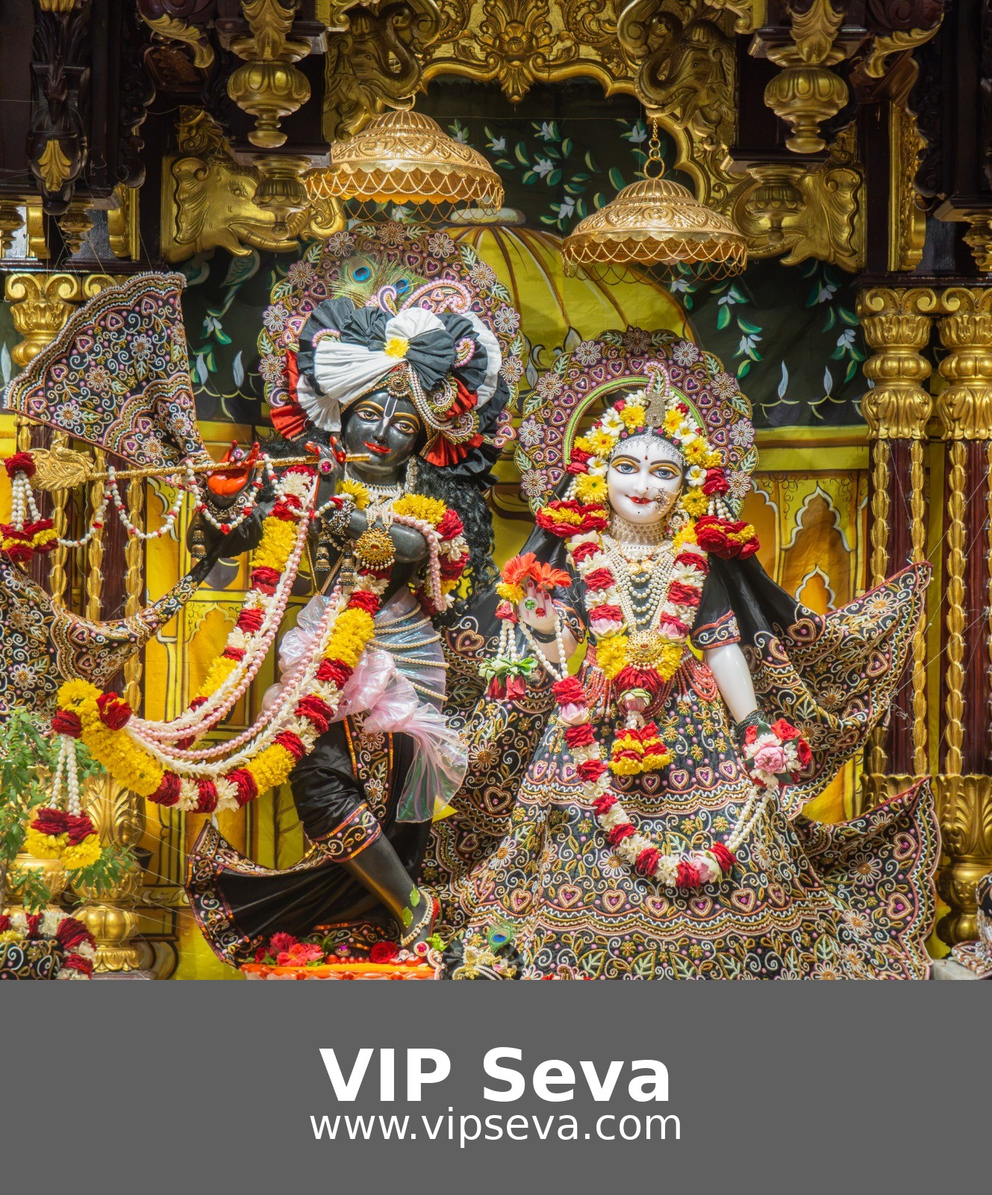
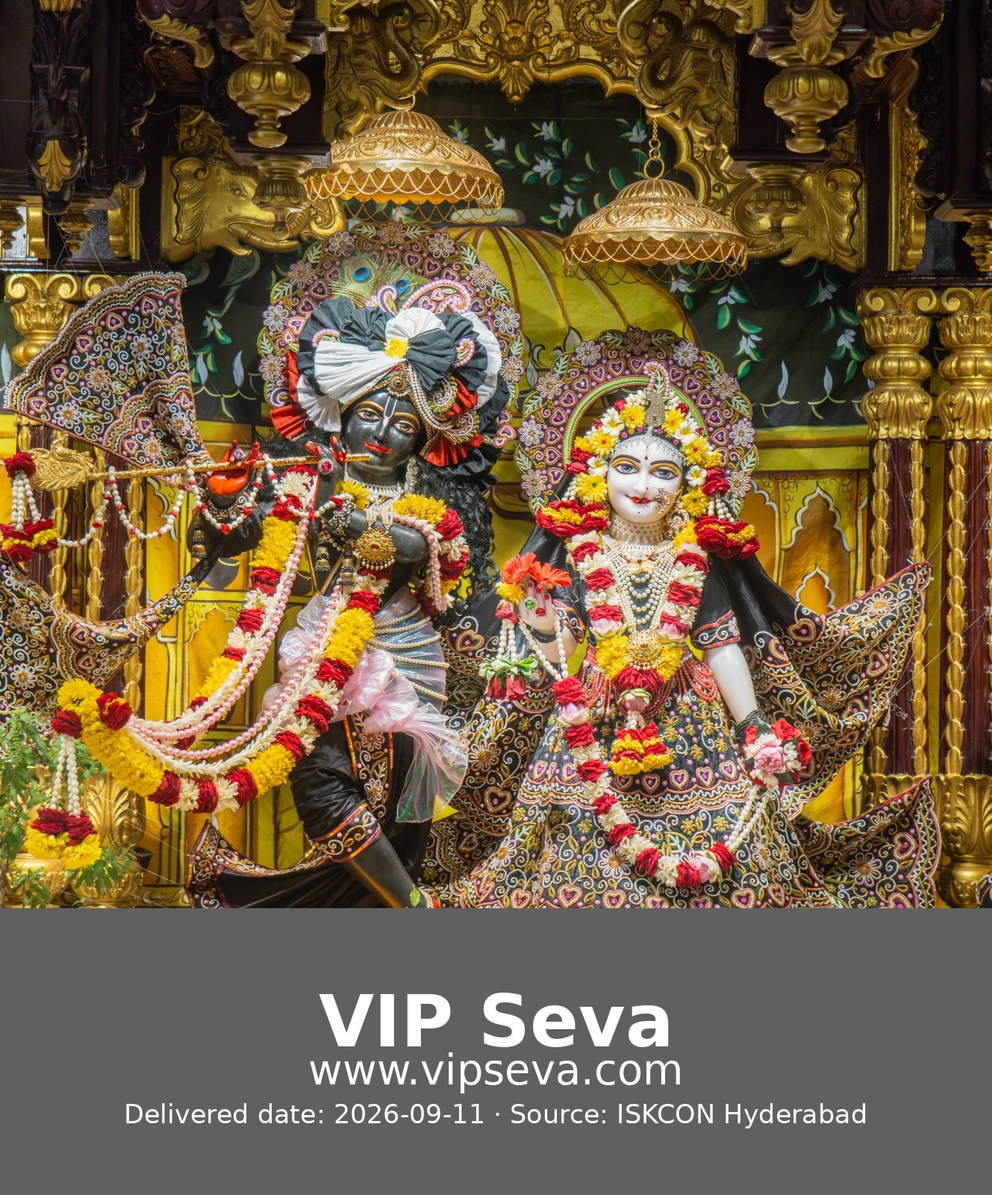
Daily darshan image + pages 2026-09-11

Changed region(s): [[0.0, 0.75, 1.0, 0.9688]]

diff --git a/docs/9432f6de6af84f6497018d43400d6122/index.html b/docs/9432f6de6af84f6497018d43400d6122/index.html
@@ -16,12 +16,8 @@
     .wrap { box-sizing: border-box; display: flex; flex-direction: column;
              gap: 8px; width: 100%; max-width: 640px; height: 100svh;
              margin: 0 auto; padding: 10px; text-align: center; }
+    h1 { flex: 0 0 auto; margin: 0; color: #34291f; font-size: 1.05rem; line-height: 1.2; }
     .greeting { flex: 0 0 auto; color: #53483c; font-size: .86rem; font-weight: 600; }
-    .delivery-summary { flex: 0 0 auto; padding: 8px 10px; border: 1px solid #eadfce;
-                         border-radius: 10px; background: #fffdf9; color: #53483c;
-                         font-size: .78rem; line-height: 1.4; }
-    .delivery-summary strong { color: #34291f; }
-    .separator { padding: 0 3px; color: #b09c85; }
     img.darshan { display: block; flex: 1 1 0; min-height: 0; width: 100%;
                    border-radius: 12px; object-fit: contain;
                    box-shadow: 0 4px 16px rgba(0,0,0,.12); }
@@ -34,13 +30,9 @@
 </head>
 <body>
   <div class="wrap">
-    <div class="greeting">Namaste Nitin Mishra Ji</div>
-    <section class="delivery-summary" aria-label="Delivery and subscription details">
-      <strong>Delivered date:</strong> 2026-09-11<span class="separator">·</span>
-      <strong>Source:</strong> ISKCON Hyderabad<span class="separator">·</span>
-      <strong>Subscription expiry:</strong> 2026-09-13
-    </section>
-    <div class="renewal" role="status"><p>Your subscription expires in 2 days. Renew now to continue receiving Daily Darshan.</p><a href="https://wa.me/15556757329?text=RENEW">Renew on WhatsApp</a></div>
+    <h1><strong>🕉&#xA0;</strong>&#x20;Daily Darshan</h1>
+    <div class="greeting">Namaste Nitin Mishra Ji 🙏</div>
+    <div class="renewal" role="status"><p>Your subscription expires in 2 days on 2026-09-13. Renew now to continue receiving Daily Darshan.</p><a href="https://wa.me/15556757329?text=RENEW">Renew on WhatsApp</a></div>
     <img class="darshan" src="https://vipseva.com/images/93b4f349-1f7f-40d9-a9c2-a1d2261b47be_2026-09-11.jpg" alt="Daily Darshan for 2026-09-11"
          onerror="this.onerror=null; this.src='https://vipseva.com/images/fallback.jpg';">
   </div>
